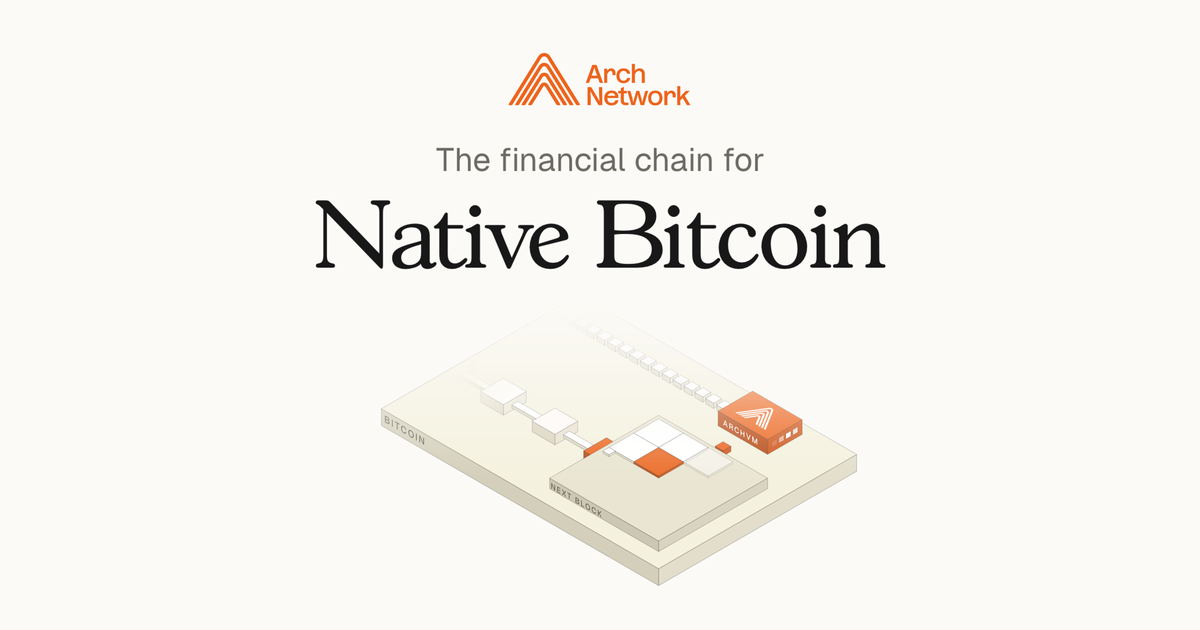
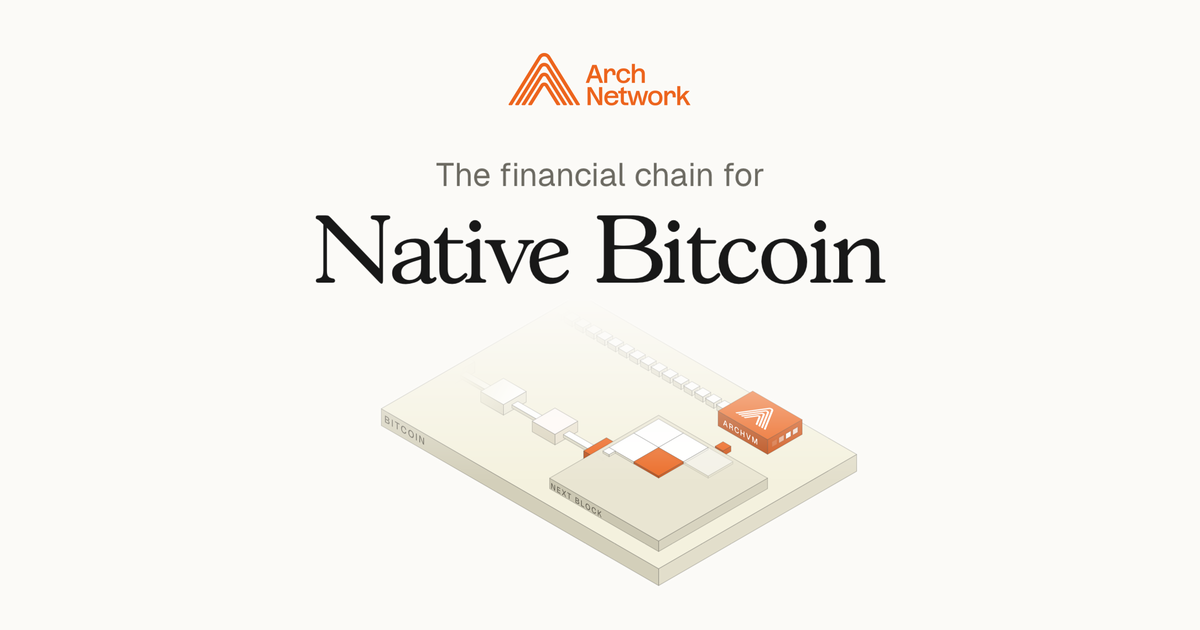
Chain OG: v12 image + copy-forward description + og:title (#9)
- Replace og-chain.png with v12 (headline nudged down)
- Description leads with the hero line instead of the technical spec (drops the
  wrapping/bridges claim)
- og:title / twitter:title -> "The financial chain for Native Bitcoin"

Changed region(s): [[0.2467, 0.2413, 0.74, 0.4524], [0.2467, 0.4222, 0.2775, 0.4524]]

diff --git a/src/app/chain/layout.tsx b/src/app/chain/layout.tsx
@@ -9,15 +9,15 @@ import "./chain.css";
 export const metadata: Metadata = {
   title: { absolute: "Chain | Arch" },
   description:
-    "Arch is a Bitcoin-native VM, chain, and validator network. Real Bitcoin, made programmable — no wrapping, no migration.",
+    "The financial chain for native Bitcoin. Borrow, earn, and swap real BTC — and it stays yours the whole way. DeFi that actually works.",
   alternates: { canonical: "/chain" },
   // Chain-specific share card (overrides the generic site OG). 1200×630, brand-matched to the home OG.
   openGraph: {
-    title: "Chain",
+    title: "The financial chain for Native Bitcoin",
     images: [{ url: "/img/og-chain.png", width: 1200, height: 630, alt: "Arch — The financial chain for Native Bitcoin" }],
   },
   twitter: {
-    title: "Chain",
+    title: "The financial chain for Native Bitcoin",
     images: [{ url: "/img/og-chain.png", alt: "Arch — The financial chain for Native Bitcoin" }],
   },
 };
